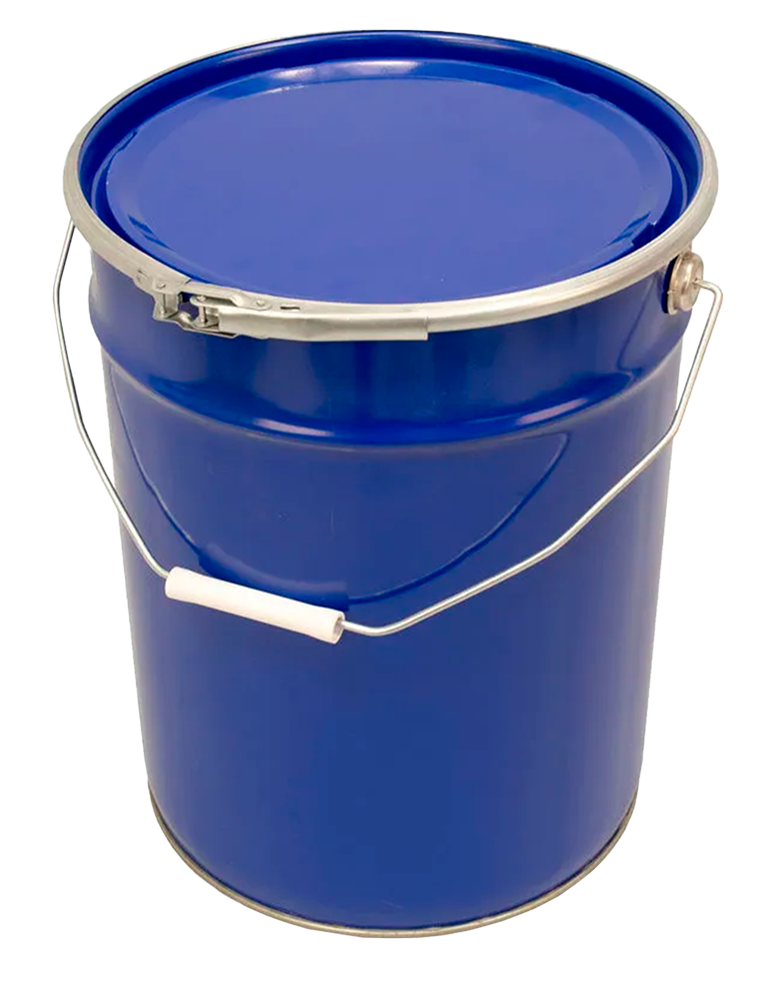
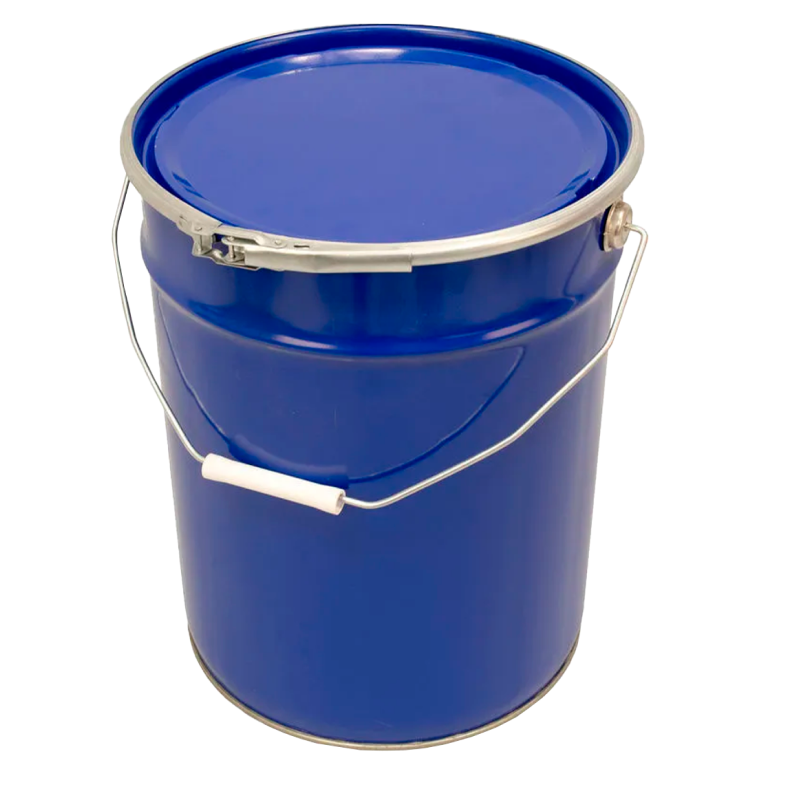
added buy-btn w/ links + lowered quality of pics for optimisation

diff --git a/src/components/FourPicsLayout.vue b/src/components/FourPicsLayout.vue
@@ -5,23 +5,23 @@
     <div class="fifth-grid">
       <h2 class="heading-cell-1">Настенное исполнение</h2>
       <div class="grid-cell first-cell">
-        <img src="/wallVarient3.png" alt="Настенный вариант фильтра" class="img" />
+        <img src="/WallVarient/wallVar1.png" alt="Настенный вариант фильтра" class="img" />
       </div>
       <h2 class="heading-cell-2">Напольное исполнение</h2>
       <div class="grid-cell second-cell">
-        <img src="/floor-var.png" alt="Напольный вариант фильтра" class="img" />
+        <img src="/FloorVarient/floorVar2.png" alt="Напольный вариант фильтра" class="img" />
       </div>
       <div class="grid-cell third-cell">
-        <img src="/wallVarient2.png" alt="Настенный вариант фильтра" class="img" />
+        <img src="/WallVarient/wallVar2.png" alt="Настенный вариант фильтра" class="img" />
       </div>
       <div class="grid-cell fourth-cell">
-        <img src="/wallVarient.png" alt="Настенный вариант фильтра" class="img" />
+        <img src="/WallVarient/wallVar3.png" alt="Настенный вариант фильтра" class="img" />
       </div>
       <div class="grid-cell fifth-cell">
-        <img src="/floorVar2.png" alt="Напольный вариант фильтра" class="img" />
+        <img src="/FloorVarient/floorVar1.png" alt="Напольный вариант фильтра" class="img" />
       </div>
       <div class="grid-cell sixth-cell">
-        <img src="/floorVar3.png" alt="Напольный вариант фильтра" class="img" />
+        <img src="/FloorVarient/floorVar3.png" alt="Напольный вариант фильтра" class="img" />
       </div>
     </div>
   </section>

diff --git a/src/components/TwoLongCellsWOnePhotoRev.vue b/src/components/TwoLongCellsWOnePhotoRev.vue
@@ -1,4 +1,5 @@
 <script setup>
+import BuyBtn from '@/ui/BuyBtn.vue'
 import PhotoCarousel from './PhotoCarousel.vue'
 
 const { cartSlides } = defineProps({
@@ -12,7 +13,12 @@ const { cartSlides } = defineProps({
   <section class="third-section">
     <div class="thrid-grid">
       <div class="grid-cell img-cell-1">
-        <PhotoCarousel :pics="cartSlides" />
+        <PhotoCarousel
+          :pics="cartSlides"
+          link="https://othertool.ru/teleghka_stroitelnaya?search=циклон"
+          side-pos="right"
+          margin-rem="0.5rem"
+        />
       </div>
       <div class="grid-cell text-cell-1">
         <h3>Строительная тележка 800*400*18мм</h3>
@@ -33,6 +39,11 @@ const { cartSlides } = defineProps({
       </div>
       <div class="grid-cell img-cell-2">
         <img src="/adapter.png" alt="Переходник-адаптер" class="img" />
+        <BuyBtn
+          link="https://othertool.ru/home_master/tsiklonnye-filtry-dlja-pylesosa/universalnyj-perexodnik-adapter-dlja-pylesosa"
+          side-pos="left"
+          margin-rem="2rem"
+        />
       </div>
       <div class="grid-cell text-cell-2">
         <p>
@@ -76,6 +87,7 @@ const { cartSlides } = defineProps({
   grid-column: 1 / 4;
 }
 .img-cell-2 {
+  position: relative;
   display: flex;
   grid-column: 3 / -1;
   grid-row: 2;

diff --git a/src/components/TwoLongCellsLayout.vue b/src/components/TwoLongCellsLayout.vue
@@ -5,8 +5,8 @@ import PhotoCarousel from './PhotoCarousel.vue'
 const { pics1, pics2, gradientDirection, equipments1, equipments2, text1, text2, layoutVariant } =
   defineProps({
     pics1: { type: Array },
-    pics2: {type: Array},
-    nozzleSlides: {type: Array},
+    pics2: { type: Array },
+    nozzleSlides: { type: Array },
     gradientDirection: { type: String, required: true },
     equipments1: { type: Object, default: () => ({}) },
     equipments2: { type: Object, default: () => ({}) },
@@ -40,10 +40,20 @@ const gridStyle = computed(() => ({
         </ul>
       </div>
       <div class="grid-cell img-cell-1">
-        <PhotoCarousel :pics="pics1" />
+        <PhotoCarousel
+          :pics="pics1"
+          link="https://othertool.ru/shlang-pvx-poleuretan-armirovannyj-50mm?search=шланг"
+          side-pos="left"
+          margin-rem="0.5rem"
+        />
       </div>
       <div class="grid-cell img-cell-2">
-        <PhotoCarousel :pics="pics2" />
+        <PhotoCarousel
+          :pics="pics2"
+          link="https://othertool.ru/shlang-pvx-s-fitingami-50mm?search=шланг"
+          side-pos="right"
+          margin-rem="0.5rem"
+        />
       </div>
       <div class="grid-cell text-cell-2">
         <h3 v-if="equipments1.header">

diff --git a/src/components/VideoSection.vue b/src/components/VideoSection.vue
@@ -9,7 +9,7 @@ import SkrewImg from '@/ui/SkrewImg.vue'
     <div class="video-cards">
       <div class="video-card">
         <div class="video-elem">
-          <img src="/floor-var.png" alt="" class="img" />
+          <img src="/FloorVarient/floorVar1.png" alt="" class="img" />
           <img src="/youtubePlaceholder.png" alt="" class="yt-placeholder" />
         </div>
         <div>
@@ -22,7 +22,7 @@ import SkrewImg from '@/ui/SkrewImg.vue'
       </div>
       <div class="video-card">
         <div class="video-elem">
-          <img src="/floorVar2.png" alt="" class="img" /><img
+          <img src="/FloorVarient/floorVar2.png" alt="" class="img" /><img
             src="/youtubePlaceholder.png"
             alt=""
             class="yt-placeholder"
@@ -36,7 +36,7 @@ import SkrewImg from '@/ui/SkrewImg.vue'
       </div>
       <div class="video-card">
         <div class="video-elem">
-          <img src="/wallVarient3.png" alt="" class="img" /><img
+          <img src="/WallVarient/wallVar3.png" alt="" class="img" /><img
             src="/youtubePlaceholder.png"
             alt=""
             class="yt-placeholder"

diff --git a/src/components/TwoEvenTopCellsLayout.vue b/src/components/TwoEvenTopCellsLayout.vue
@@ -25,10 +25,20 @@ const gradientStyle = computed(() => ({
         <p>{{ topText }}</p>
       </div>
       <div class="grid-cell second-cell">
-        <PhotoCarousel :pics="metalBarrelsPics" />
+        <PhotoCarousel
+          :pics="metalBarrelsPics"
+          link="https://othertool.ru/metall-bochka?search=бочка"
+          side-pos="left"
+          margin-rem="0.5rem"
+        />
       </div>
       <div class="grid-cell third-cell">
-        <PhotoCarousel :pics="plasticBarrelPics" />
+        <PhotoCarousel
+          :pics="plasticBarrelPics"
+          link="https://othertool.ru/novye-plastikovye-bochki?search=бочка"
+          side-pos="right"
+          margin-rem="0.5rem"
+        />
       </div>
       <div class="grid-cell last-cell">
         <p>{{ bottomText }}</p>
@@ -49,7 +59,7 @@ const gradientStyle = computed(() => ({
 .thrid-grid {
   display: grid;
   grid-template-columns: repeat(4, 0.25fr);
-  grid-template-rows: minmax(450px, 1fr) 1fr;
+  grid-template-rows: 1fr 1fr;
   gap: 2rem;
   height: 100%;
   flex-grow: 1;

diff --git a/src/components/PhotoCarousel.vue b/src/components/PhotoCarousel.vue
@@ -1,8 +1,12 @@
 <script setup>
+import BuyBtn from '@/ui/BuyBtn.vue'
 import { ref } from 'vue'
 
-const { pics } = defineProps({
+const { pics, link, sidePos, marginRem } = defineProps({
   pics: { type: Array, required: true, default: () => [] },
+  link: String,
+  sidePos: String,
+  marginRem: String,
 })
 
 const curIndex = ref(0)
@@ -32,18 +36,19 @@ function prevSlide() {
     </div>
     <button class="carousel-btn prev" @click="prevSlide">❮</button>
     <button class="carousel-btn next" @click="nextSlide">❯</button>
+    <BuyBtn :link="link" :sidePos="sidePos" :margin-rem="marginRem" />
   </div>
 </template>
 
 <style scoped>
 .carousel {
+  position: relative;
+  overflow: hidden;
   display: flex;
   align-items: center;
   justify-content: center;
-  position: relative;
   width: 100%;
   height: 100%;
-  overflow: hidden;
 }
 
 .carousel-container {

diff --git a/src/components/OneSideImgTwoRowsLayout.vue b/src/components/OneSideImgTwoRowsLayout.vue
@@ -1,4 +1,5 @@
 <script setup>
+import BuyBtn from '@/ui/BuyBtn.vue'
 import SkrewImg from '@/ui/SkrewImg.vue'
 
 const equipments = [
@@ -28,6 +29,11 @@ const equipments = [
           src="/one-side-img.png"
           alt="Двухфункциональная система двойной фильтрации"
           class="img"
+        />
+        <BuyBtn
+          link="https://othertool.ru/dvuxfunktsionalnaja-tsiklonnaja-sistema-dvojno-filtratsii?search=циклон"
+          side-pos="right"
+          marginRem="2rem"
         />
       </div>
       <div class="grid-cell top-cell">
@@ -82,6 +88,7 @@ const equipments = [
   min-height: 0;
 }
 .img-cell {
+  position: relative;
   grid-row: 1 / -1;
   grid-column: 1 / 2;
   padding-left: 0;

diff --git a/src/ui/BuyBtn.vue b/src/ui/BuyBtn.vue
@@ -1,0 +1,42 @@
+<script setup>
+const { link, sidePos, marginRem } = defineProps({
+  link: String,
+  sidePos: String,
+  marginRem: String,
+})
+</script>
+
+<template>
+  <a
+    class="buy-btn"
+    :style="{ [sidePos]: marginRem, bottom: marginRem }"
+    :href="link"
+    target="_blank"
+    >Купить</a
+  >
+</template>
+
+<style>
+.buy-btn {
+  position: absolute;
+  cursor: pointer;
+  text-decoration: none;
+  padding: 1rem 3.5rem;
+  font-size: clamp(1.2rem, 1.8vw, 1.8rem);
+  font-weight: 600;
+  background-color: transparent;
+  border: 3px solid white;
+  border-radius: 1.4rem;
+  transition: all 0.2s;
+
+  &:link,
+  &:visited {
+    color: white;
+  }
+
+  &:hover {
+    background-color: white;
+    color: black;
+  }
+}
+</style>

diff --git a/src/components/TwoLongCellsWOnePhoto.vue b/src/components/TwoLongCellsWOnePhoto.vue
@@ -24,7 +24,12 @@ const { nozzleSlides, equipments1, equipments2 } = defineProps({
         <img src="/bundling.png" alt="Комплектация фильтра" class="img" />
       </div>
       <div class="grid-cell img-cell-2">
-        <PhotoCarousel :pics="nozzleSlides" />
+        <PhotoCarousel
+          :pics="nozzleSlides"
+          link="https://othertool.ru/dvojnoj-filtratsiej?search=циклон"
+          side-pos="right"
+          margin-rem="0.5rem"
+        />
       </div>
       <div class="grid-cell text-cell-2">
         <h3>Насадка на циклонный фильтр SN50T3 — вторая ступень фильтрации</h3>

diff --git a/src/components/IntroductorySectionLayout.vue b/src/components/IntroductorySectionLayout.vue
@@ -72,7 +72,12 @@ const doubleCycloneSlides = [
     :bottomText="howFilterWorksTexts"
   >
     <template #photo-place>
-      <PhotoCarousel :pics="cyclone_SN50T3F_slides" />
+      <PhotoCarousel
+        :pics="cyclone_SN50T3F_slides"
+        link="https://othertool.ru/tsiklon-dlja-pylesosa-sn50t3-poslednego-pokolenija?search=циклон"
+        side-pos="left"
+        marginRem="0.5rem"
+      />
     </template>
   </HowFilterWorksSection>
   <TwoColumnsLayout

diff --git a/src/components/TwoColumnsLayout.vue b/src/components/TwoColumnsLayout.vue
@@ -42,7 +42,12 @@ const rowStyle = computed(() => ({
         </ul>
       </div>
       <div class="info-cell">
-        <PhotoCarousel :pics="pics" />
+        <PhotoCarousel
+          :pics="pics"
+          link="https://othertool.ru/tsiklonnyj-filtr-s-dvojnoj-filtratsiej?search=циклон"
+          side-pos="left"
+          margin-rem="0.5rem"
+        />
       </div>
     </div>
   </section>

diff --git a/src/assets/main.css b/src/assets/main.css
@@ -13,6 +13,7 @@
   box-sizing: border-box;
   margin: 0;
   padding: 0;
+  -webkit-tap-highlight-color: transparent;
 }
 
 html {
